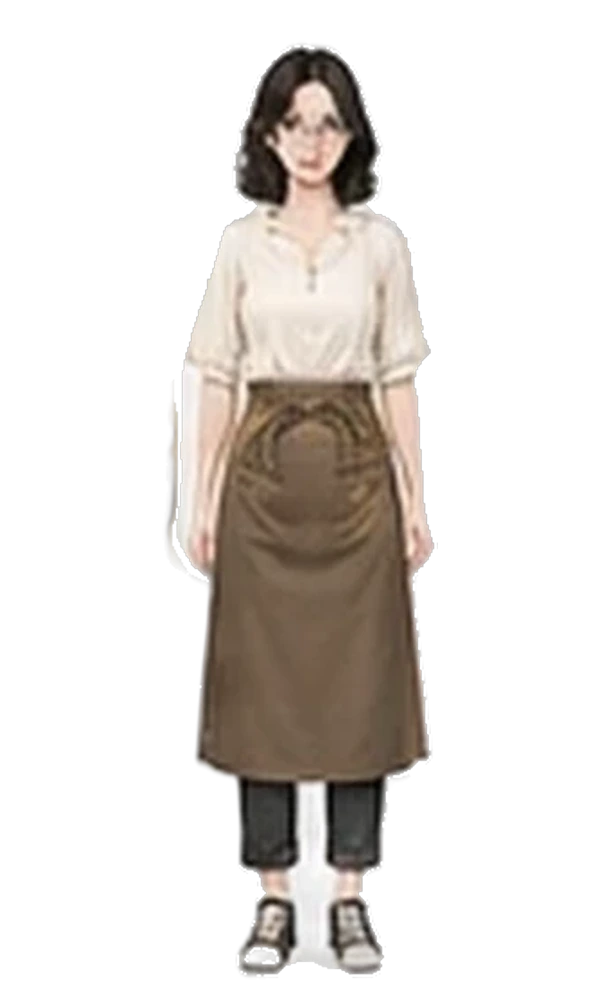
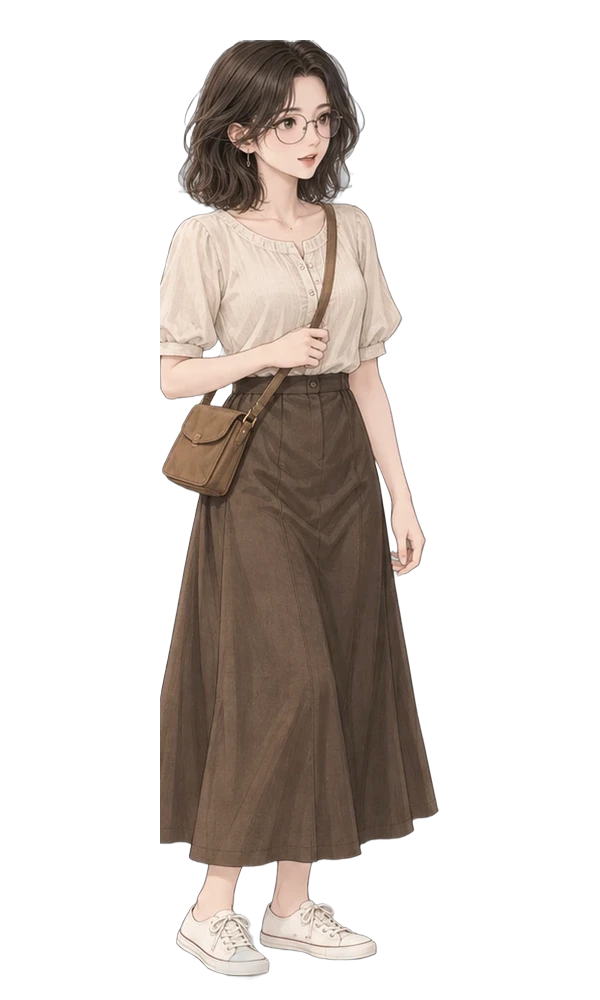
芷若對話立繪照 BB-B 驗收改：campus 改用約會圖 heroine_02_date_warm 姿勢①去背（原圖 972 px，較清楚），圍裙版搬到 heroine_02/cafe/neutral；表情不換臉（姿勢①是四分之三側臉、頭像是正面，硬貼會錯位），三個選項回報 BB-B
Claude-Session: https://claude.ai/code/session_01GV1WG3UeT2DhuDpxeWJsvD

Changed region(s): [[0.24, 0.031, 0.75, 0.992]]

diff --git a/tools/portraits/cut_reference_portraits.py b/tools/portraits/cut_reference_portraits.py
@@ -5,6 +5,7 @@
 來源（都要是 BB 驗收過的版本，見 BB_116 第 10～13 節、BB_131 第 1 節）：
   五位女主角：docs/art-rebuild/references/heroine_sheets/heroine_0X_sheet.webp（使用者 2026-10-16 提供的 06 標準圖單人大圖）
   其他人：企劃線 docs/story_planning/art_reference/<id>.webp（--ref 指定資料夾）
+  芷若平常（campus）：企劃線 date_system/art/heroine_02_date_warm.webp 姿勢①（--date 指定資料夾；BB-B 驗收時指定）；圍裙版放 cafe
 用法：python3 tools/portraits/cut_reference_portraits.py --ref <art_reference 資料夾> --out <輸出資料夾> [--only id,id]
 輸出：<out>/<遊戲 id>/campus/neutral.webp（600×1000，透明）＋ <out>/_contact.png（全部並排，給 BB 對照）"""
 import argparse, os
@@ -17,7 +18,8 @@ HS = os.path.join(ROOT, 'docs/art-rebuild/references/heroine_sheets')
 # 遊戲 id → (來源, 正面全身的裁切範圍 x0,y0,x1,y1（原圖像素，含一點邊）)
 SRC = {
     'heroine_01': ('H:heroine_01_sheet.webp', (322, 0, 480, 532)),
-    'heroine_02': ('H:heroine_02_sheet.webp', (322, 0, 480, 538)),
+    'heroine_02': ('D:heroine_02_date_warm.webp', (60, 20, 362, 992)),          # BB-B 驗收（BB_131 第 5 節）：芷若平常用約會圖 heroine_02_date_warm 的姿勢①（左邊站姿）
+    'heroine_02@cafe': ('H:heroine_02_sheet.webp', (322, 0, 480, 538)),         # 圍裙版＝Café 當班（heroine_02/cafe/neutral）
     'heroine_03': ('H:heroine_03_sheet.webp', (320, 0, 462, 532)),
     'heroine_04': ('H:heroine_04_sheet.webp', (320, 0, 472, 532)),
     'heroine_05': ('H:heroine_05_sheet.webp', (320, 0, 462, 532)),
@@ -47,14 +49,15 @@ CW, CH, TOP, FILL = 600, 1000, 0.04, 0.94
 
 
 def main():
-    ap = argparse.ArgumentParser(); ap.add_argument('--ref', required=True); ap.add_argument('--out', required=True); ap.add_argument('--only', default='')
+    ap = argparse.ArgumentParser(); ap.add_argument('--ref', required=True); ap.add_argument('--out', required=True); ap.add_argument('--only', default=''); ap.add_argument('--date', default='', help='企劃線 docs/story_planning/date_system/art 資料夾')
     a = ap.parse_args(); only = [s for s in a.only.split(',') if s]
     from rembg import new_session, remove
     sess = {m: new_session(m) for m in ('isnet-anime', 'u2net')}; tiles = []
-    REAL = {'heroine_01', 'heroine_02', 'heroine_03', 'heroine_04', 'heroine_05', 'kexin'}
+    REAL = {'heroine_01', 'heroine_02@cafe', 'heroine_03', 'heroine_04', 'heroine_05', 'kexin'}
     for gid, (src, box) in SRC.items():
         if only and gid not in only: continue
-        kind, fn = src.split(':', 1); path = os.path.join(HS if kind == 'H' else a.ref, fn)
+        kind, fn = src.split(':', 1); path = os.path.join({'H': HS, 'D': a.date or a.ref}.get(kind, a.ref), fn)
+        gdir, outfit = (gid.split('@') + ['campus'])[:2]
         im = Image.open(path).convert('RGB'); x0, y0, x1, y1 = box
         crop = im.crop((max(0, x0), max(0, y0), min(im.width, x1), min(im.height, y1)))
         rgba = np.array(remove(crop, session=sess['u2net' if gid in REAL else 'isnet-anime'])).astype(np.float32)
@@ -79,7 +82,7 @@ def main():
         if fw > CW * 0.98: s = CW * 0.98 / fig.width; fw, fh = round(fig.width * s), round(fig.height * s)
         fig = fig.resize((fw, fh), Image.LANCZOS)
         can = Image.new('RGBA', (CW, CH), (0, 0, 0, 0)); can.paste(fig, ((CW - fw) // 2, round(CH * TOP)), fig)
-        od = os.path.join(a.out, gid, 'campus'); os.makedirs(od, exist_ok=True)
+        od = os.path.join(a.out, gdir, outfit); os.makedirs(od, exist_ok=True)
         can.save(os.path.join(od, 'neutral.webp'), quality=92, method=6)
         print(gid, 'source', fn, 'crop', box, 'figure px', fig.size, 'native height', fy1 - fy0, 'scale %.2f' % s)
         tiles.append((gid, can))

diff --git a/docs/art-rebuild/second_ai/test_shots/portraits_v1/README.md b/docs/art-rebuild/second_ai/test_shots/portraits_v1/README.md
@@ -33,3 +33,16 @@
 4. 學姊手上拿著書／資料夾、柏翰拿書、周教授拿六法、品妤拿計算機與保溫杯：照標準圖保留。
 5. 舊立繪 `assets/portraits/heroine_0X/campus/neutral.png`（9/27 舊圖）**沒有刪**；`portrait_manifest.js`、`build/` 由 LAWWW-B 重新產生（`python3 build.py`），並確認遊戲不再讀舊 png。
 6. 只有 Python 端檢查，**還沒接進遊戲、沒有遊戲內 ADV 截圖、沒有手機實機**（BB_131 第 4 節的對照截圖由 LAWWW-B 拍）。
+
+## 第二次（BB-B 驗收後，2026-10-16 00:3x）
+
+- BB-B 驗收：**人物一致性通過**（`BB_131` 第 5 節）。照 BB-B 的指定改芷若：
+  - `heroine_02/cafe/neutral.webp`：06 大圖的圍裙版，Café 當班時用。
+  - `heroine_02/campus/neutral.webp`：約會圖 `date_system/art/heroine_02_date_warm.webp`（企劃線 `claude/elegant-brown-fcos7n`）的姿勢①（左邊站姿）去背。原圖人物高 972 px，比 06 大圖清楚。
+- **表情（smile／thinking／embarrassed）沒有做**：
+  - BB-B 建議「同一個身體＋換臉」。但姿勢①的臉是朝她左邊轉約 45° 的四分之三側臉，下方四個頭像是正面。
+  - 硬貼會讓眼鏡、耳朵、髮線錯位，看得出是拼的，不符合「不重畫、不冒充」。
+  - 已經回報 BB-B，三個選項等它決定：
+    - ① 請使用者照姿勢①生成同一姿勢、不同表情的圖。
+    - ② 表情改用頭像那種胸上取景。這樣同一角色取景會不同，違反 `CHARACTER_ART_SPEC`。
+    - ③ 先只有 neutral，遊戲照舊退回 neutral。
